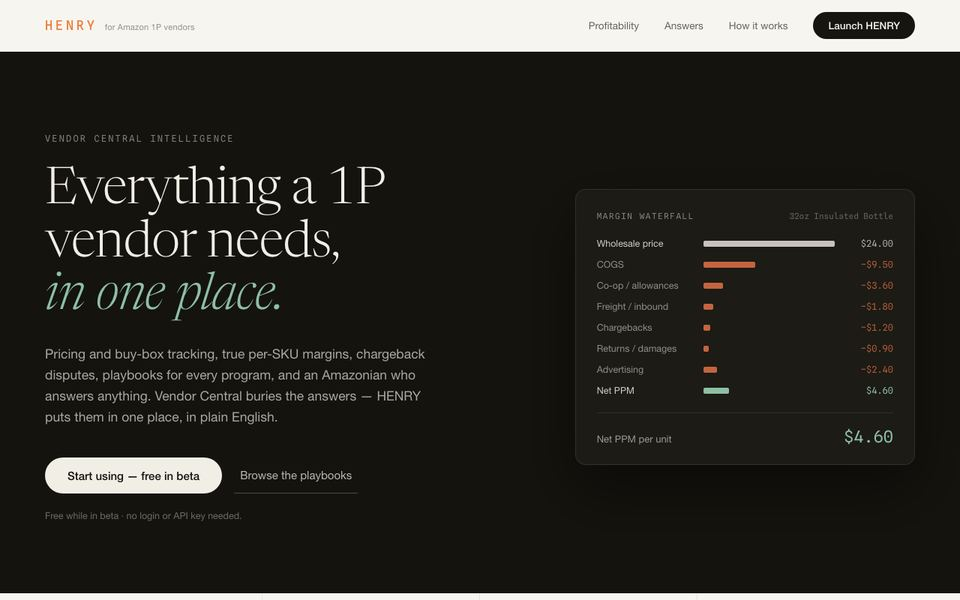
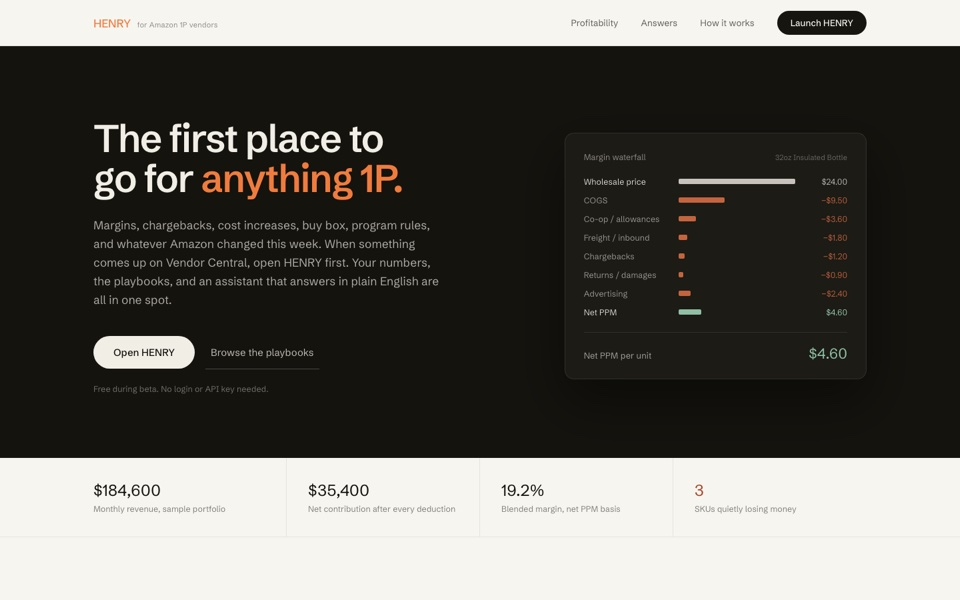
Work page: new Delphi and Henry screenshots

diff --git a/work.html b/work.html
@@ -73,7 +73,7 @@
     </div>
 
     <article class="build delphi" id="delphi">
-      <a class="shot" href="https://delphi-stocks.vercel.app" target="_blank" rel="noopener"><img src="images/builds/delphi.jpg" alt="Delphi, live" loading="lazy" width="960" height="600"></a>
+      <a class="shot" href="https://delphi-stocks.vercel.app" target="_blank" rel="noopener"><img src="images/builds/delphi.jpg?v=20261009" alt="Delphi, live" loading="lazy" width="960" height="600"></a>
       <div class="story">
         <span class="num">01</span>
         <h2 class="sign-name"><svg class="ico" viewBox="0 0 24 24" aria-hidden="true"><path d="M5 4v16M12 2.5v19M19 6v13"/><rect x="3.5" y="10" width="3" height="6" rx=".5"/><rect x="10.5" y="5.5" width="3" height="9" rx=".5"/><rect x="17.5" y="8" width="3" height="7" rx=".5"/></svg>Delphi</h2>
@@ -86,7 +86,7 @@
     </article>
 
     <article class="build henry" id="henry">
-      <a class="shot" href="https://henry-ten.vercel.app" target="_blank" rel="noopener"><img src="images/builds/henry.jpg" alt="Henry, live" loading="lazy" width="960" height="600"></a>
+      <a class="shot" href="https://henry-ten.vercel.app" target="_blank" rel="noopener"><img src="images/builds/henry.jpg?v=20261009" alt="Henry, live" loading="lazy" width="960" height="600"></a>
       <div class="story">
         <span class="num">02</span>
         <h2 class="sign-name"><svg class="ico" viewBox="0 0 24 24" aria-hidden="true"><rect x="3" y="9" width="18" height="11" rx="1.5"/><path d="M9 9V6.5h6V9M3 13.5h18M11 12.5v2.5h2v-2.5"/></svg>Henry</h2>
